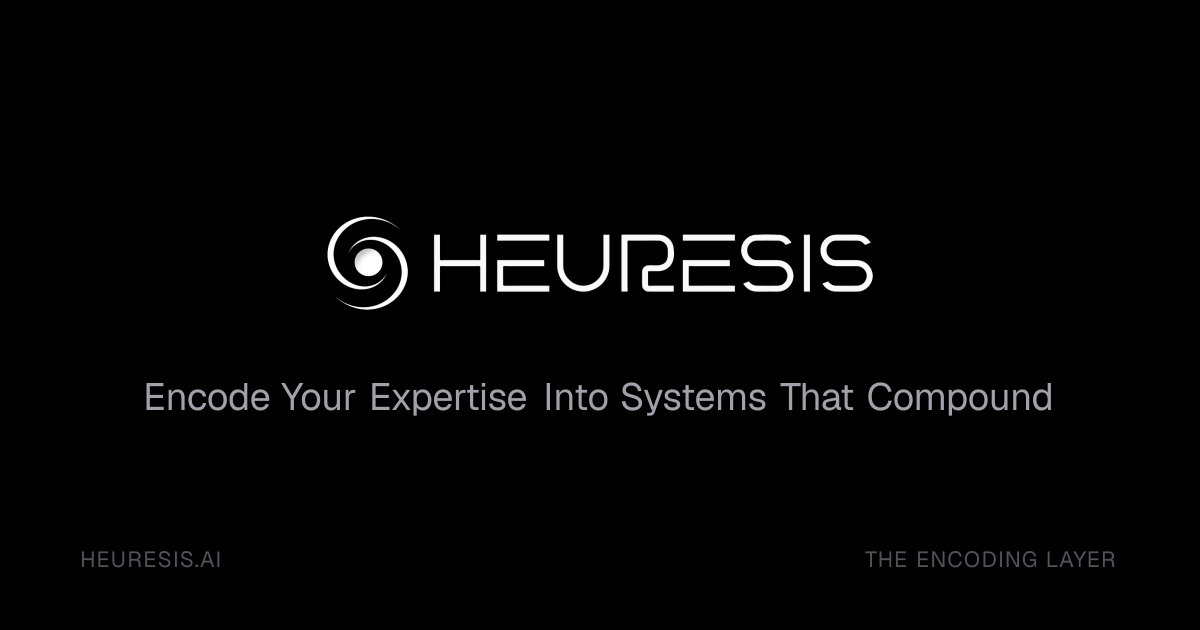
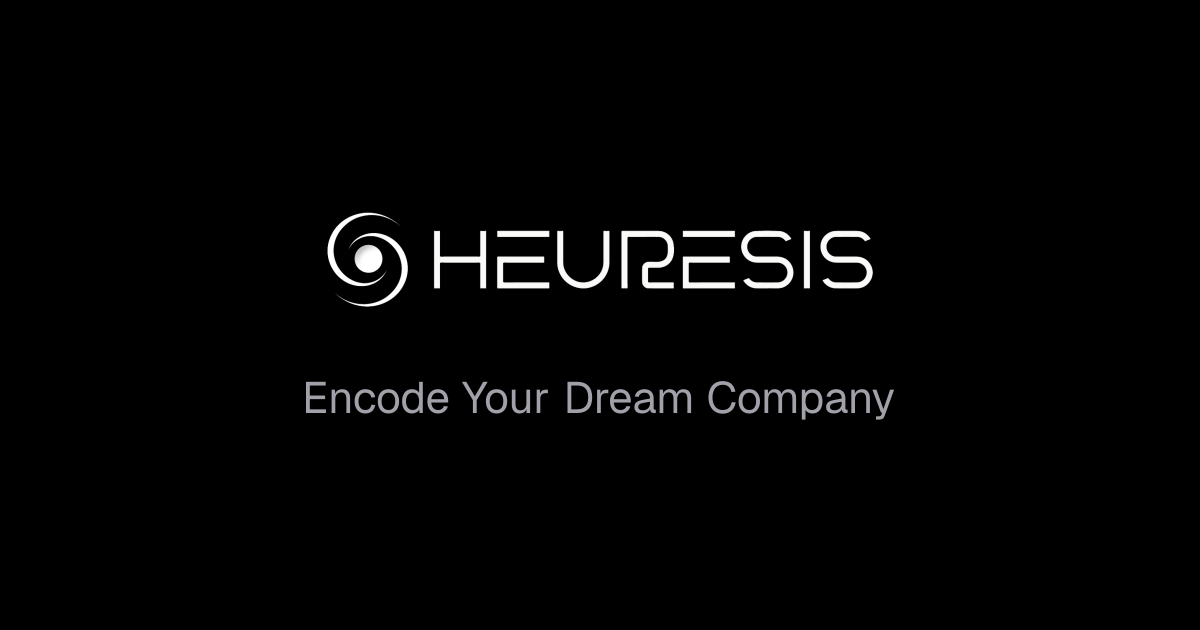
profile: swap hero to "encode your dream company", drop footer strip + duplicates
- Regenerated hero.png without heuresis.ai/encoding-layer footer
- Tagline now "Encode Your Dream Company" (matches positioning, not company strapline)
- Removed duplicate "Encode your dream company." heading below image
- Removed duplicate "The runtime is replaceable." line
- Slimmed footer to bare heuresis.ai link

diff --git a/README.md b/README.md
@@ -1,11 +1,9 @@
 <div align="center">
 
-<img src="hero.png" width="100%" alt="Heuresis — Encode Your Expertise Into Systems That Compound">
+<img src="hero.png" width="100%" alt="Heuresis — Encode Your Dream Company">
 
 <br/>
 <br/>
-
-### Encode your dream company.
 
 A workspace you own. Every department encoded.
 
@@ -47,8 +45,6 @@ cd Growth-Operator-Agency
 Eleven runtimes supported: Claude Code, GitHub Copilot, Antigravity,
 Gemini CLI, OpenCode, Cursor, Aider, Windsurf, OpenClaw, Qwen Code, Kimi Code.
 
-The workspace is the asset. The runtime is replaceable.
-
 ## How encoding works
 
 Every workspace ships in three layers:
@@ -67,6 +63,6 @@ every output. The receipts compound.
 
 <div align="center">
 
-<sub>Built by <a href="https://heuresis.ai">Heuresis</a> — the encoding layer for companies.</sub>
+<sub><a href="https://heuresis.ai">heuresis.ai</a></sub>
 
 </div>
